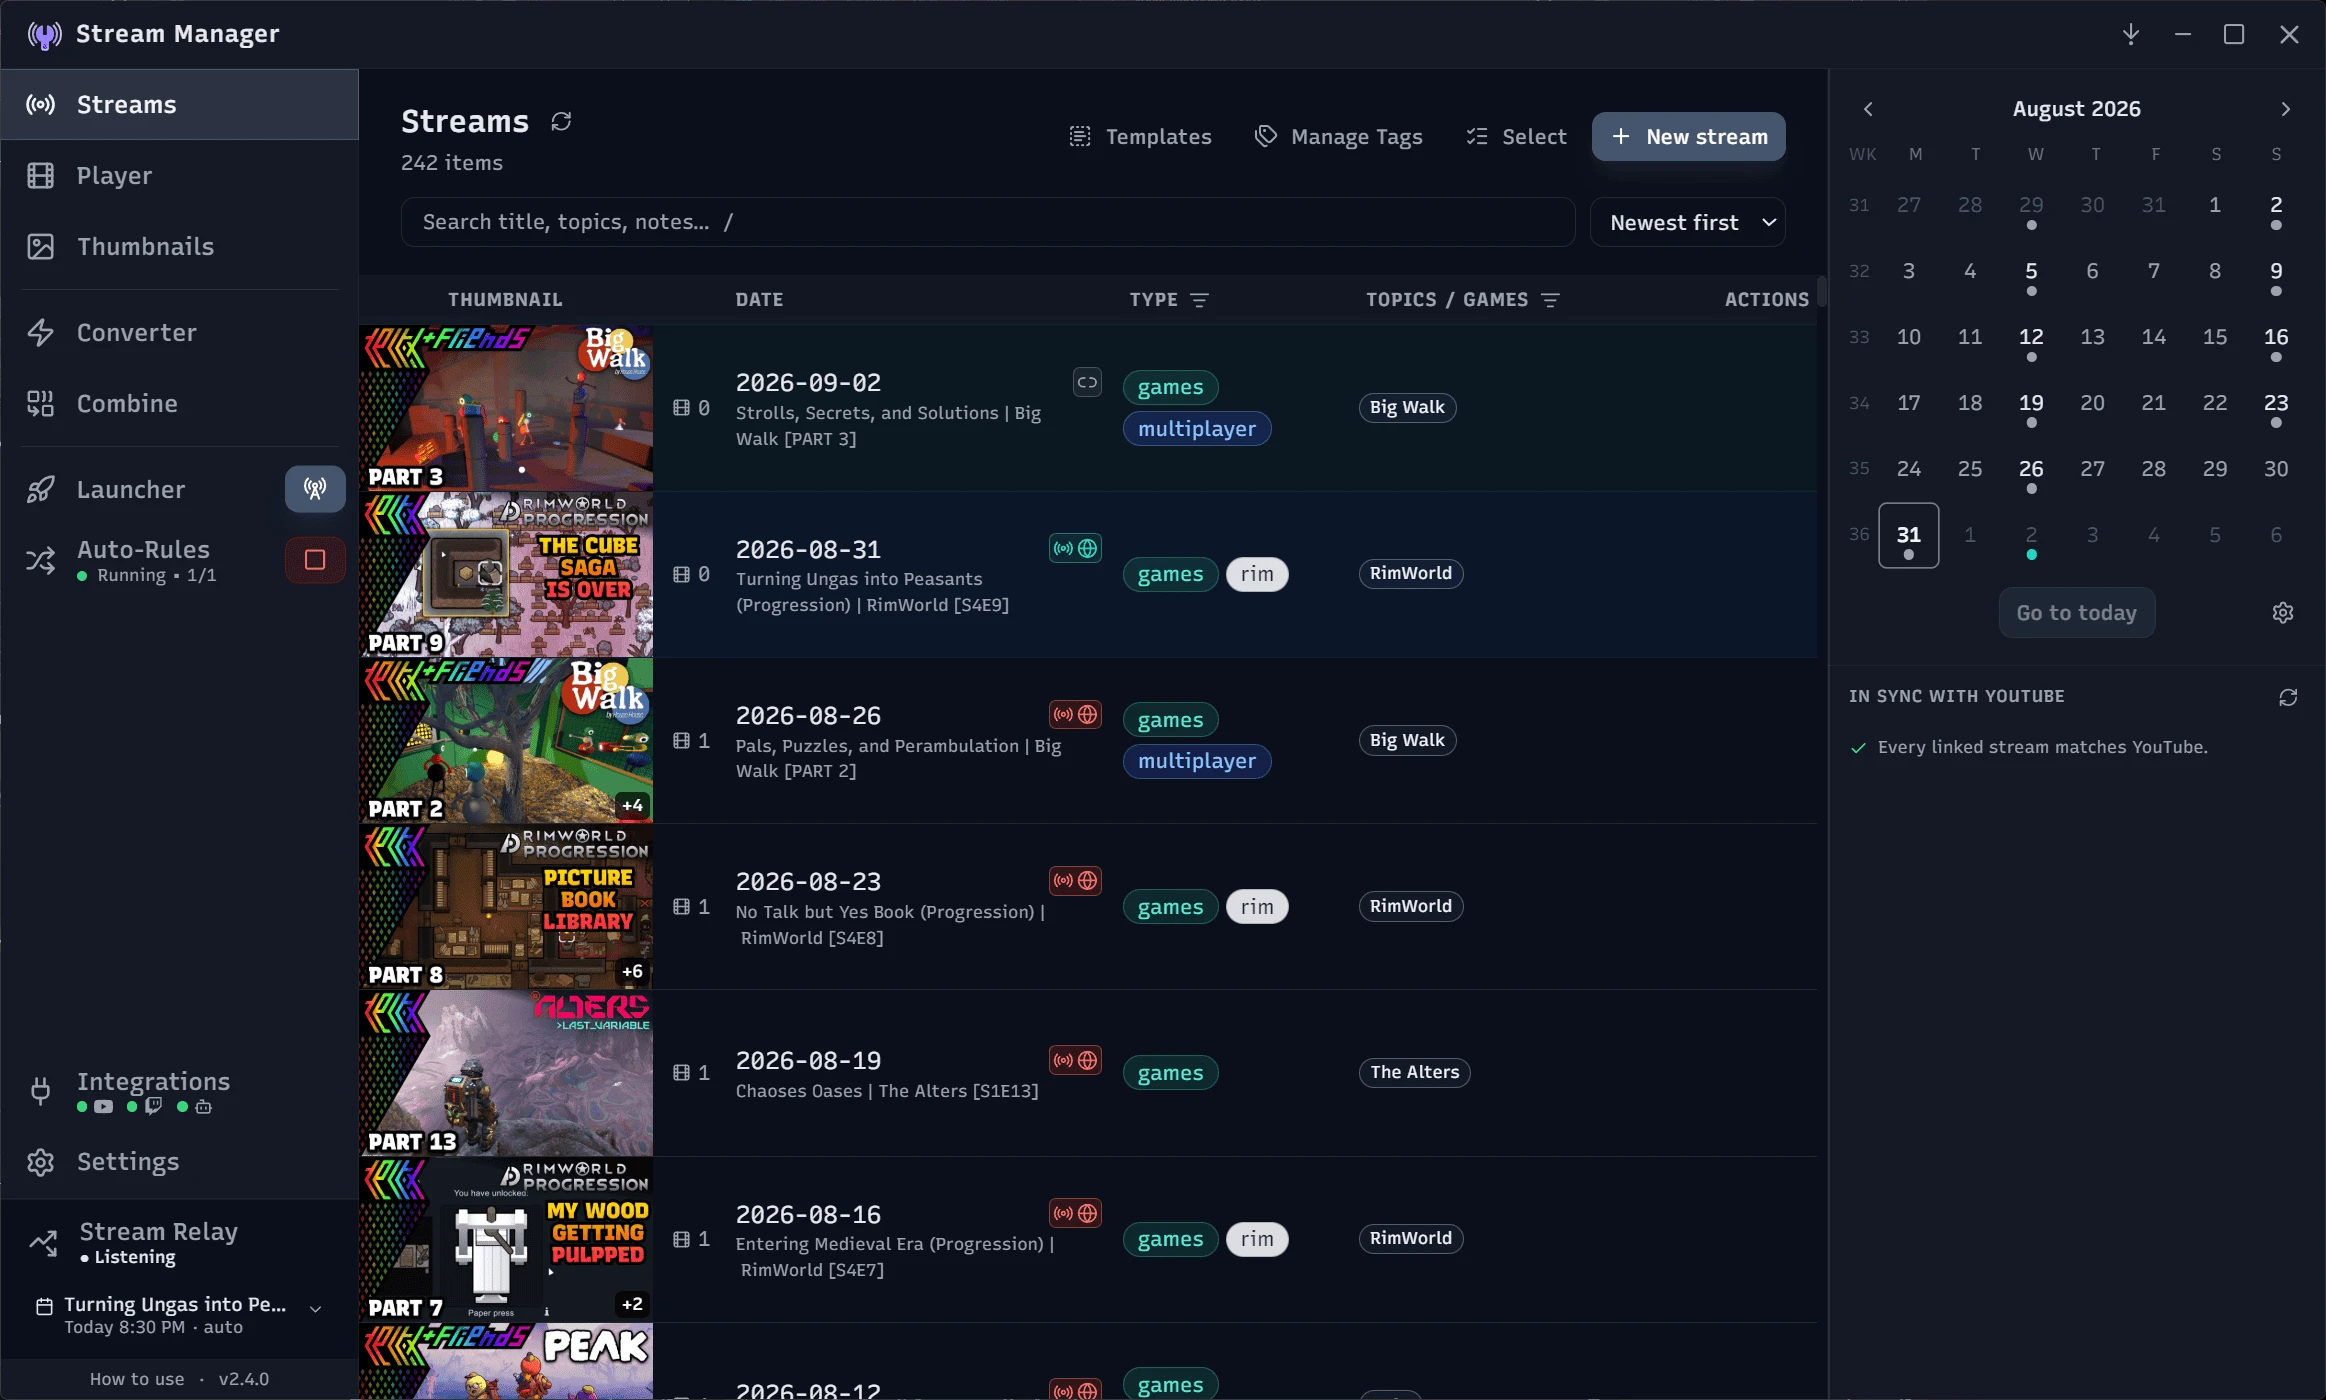
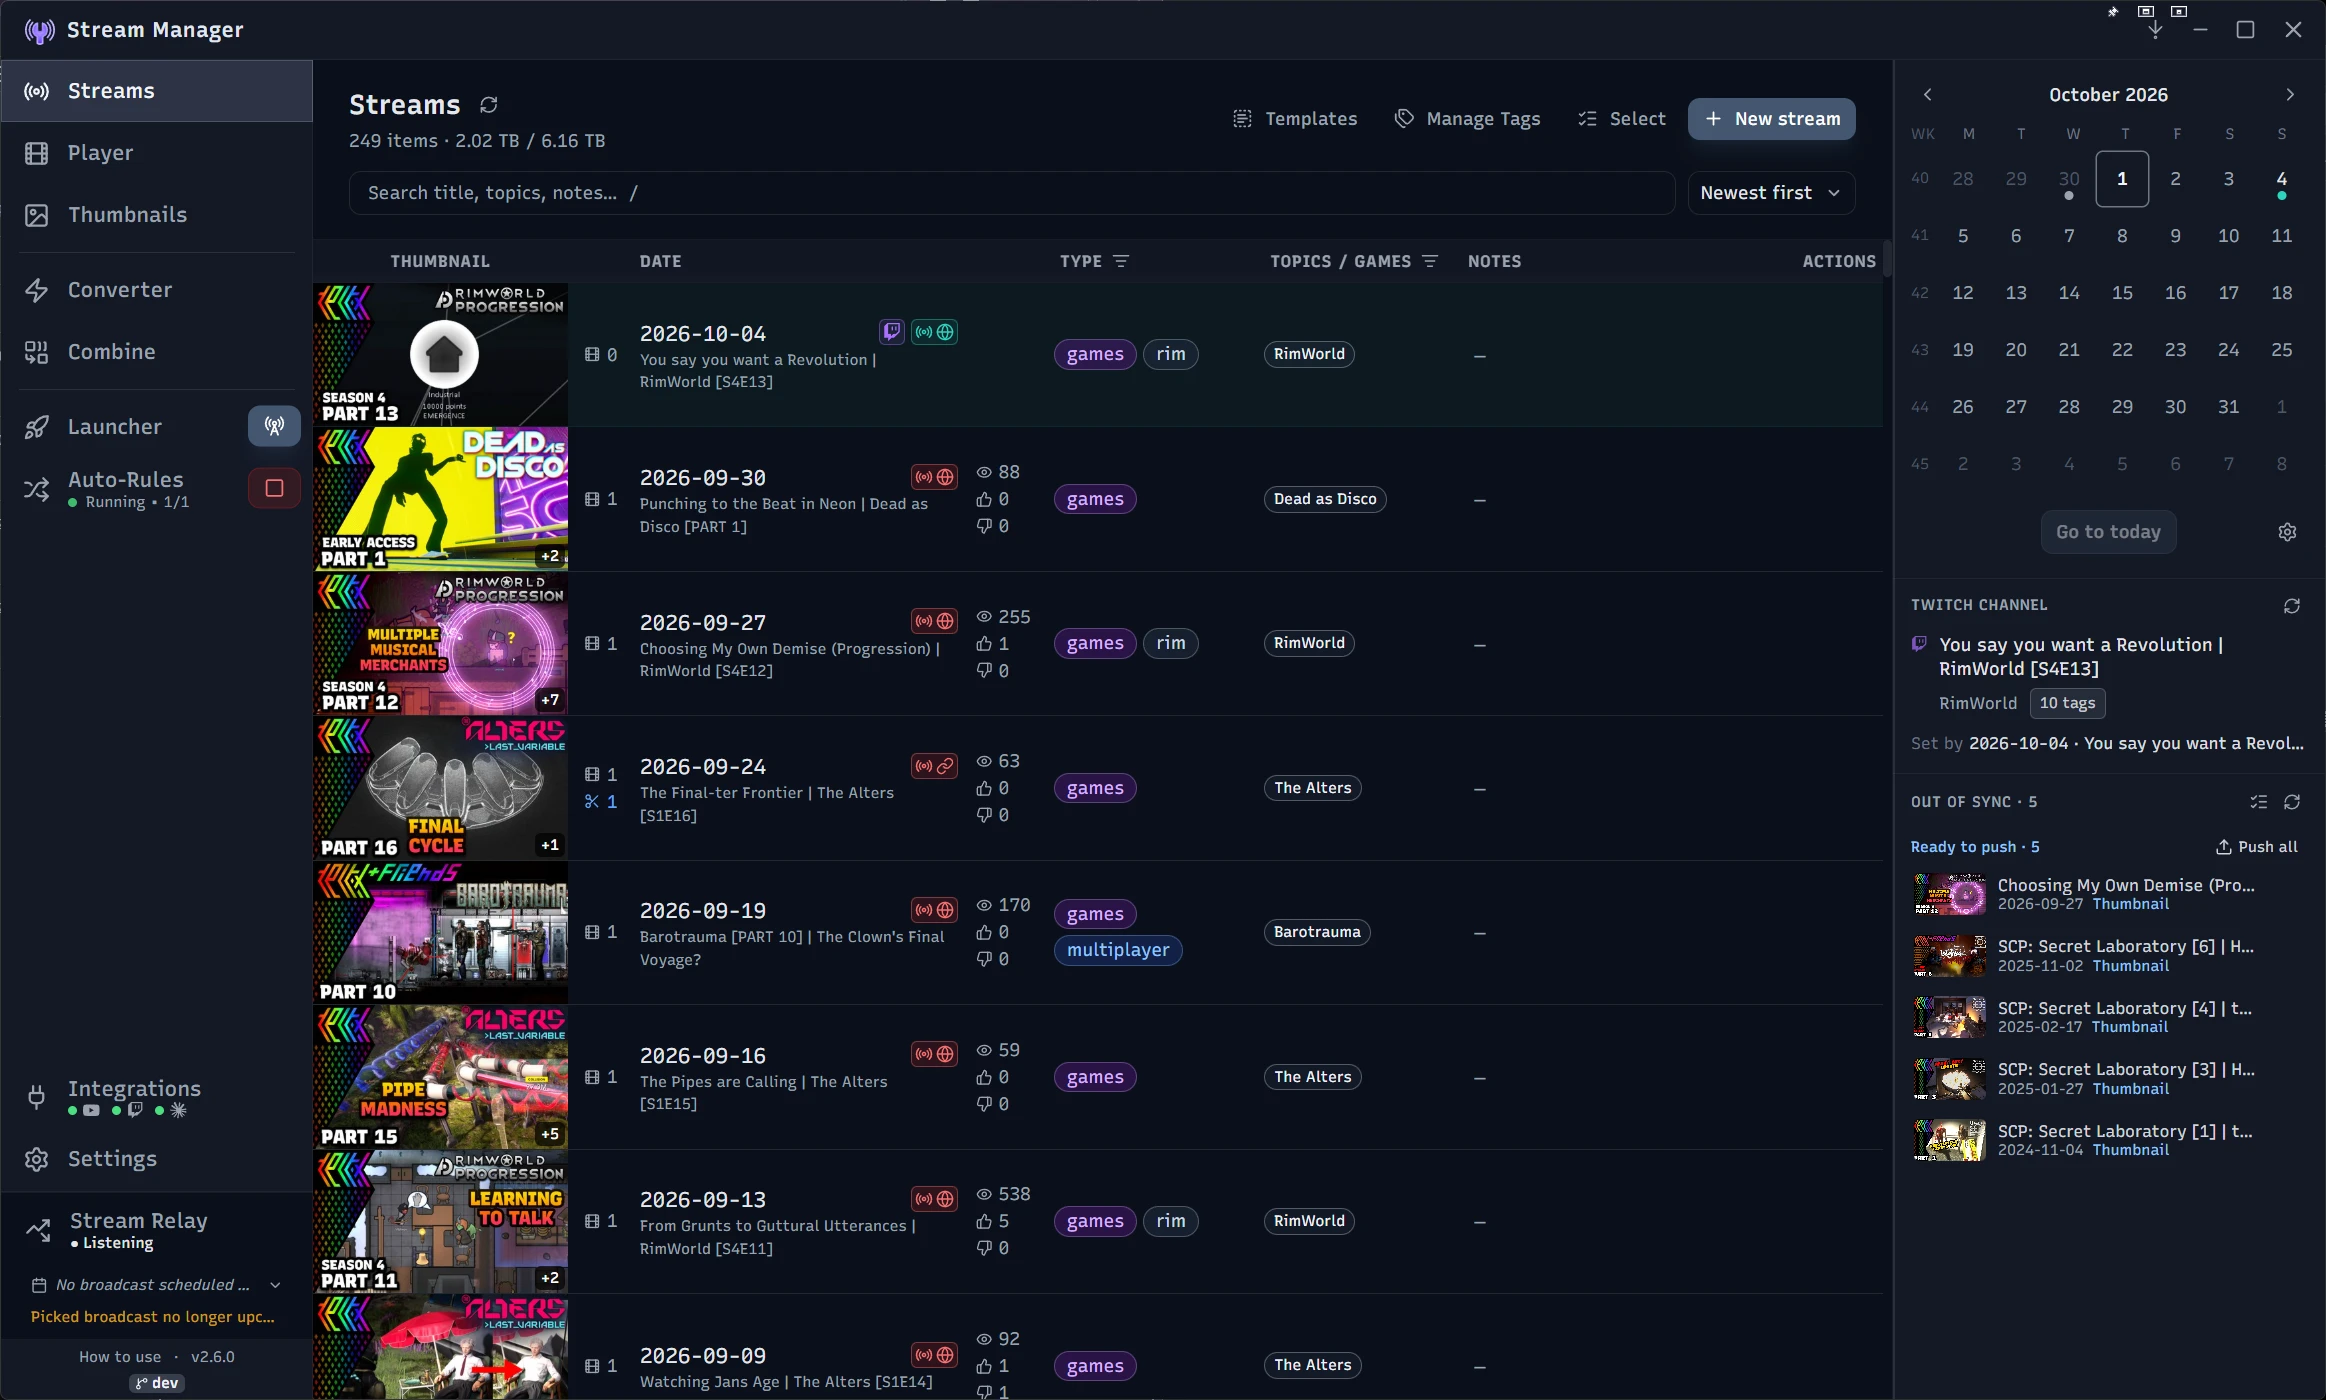
docs: updated hero image for readme

diff --git a/_release-test-checklist-2026-09-16.md b/_release-test-checklist-2026-09-16.md
@@ -109,7 +109,7 @@ Batch: no single theme. The Electron 34 to 44 upgrade, a converter and cloud rou
 
 ## Docs (every release)
 
-- [ ] README.md reviewed against the shipped app (2026-10-01): one sentence added to Thumbnail Editor for groups, masks, group effects, polygons, arrows, and gradient kinds; Electron 44 and Node 24 already right; all eleven links answer 200; layout block gained `constants/` and names the new lib and hook areas. Still open: the hero screenshot, to be swapped in from the website's new shoot before promotion.
+- [x] README.md reviewed against the shipped app (2026-10-01): one sentence added to Thumbnail Editor for groups, masks, group effects, polygons, arrows, and gradient kinds; Electron 44 and Node 24 already right; all eleven links answer 200; layout block gained `constants/` and names the new lib and hook areas; the hero image replaced from the new shoot (the previous one kept in `resources/_Archive/`, which the packaged build does not include: only `resources/icon.png` is bundled).
 - [x] CONTRIBUTING.md and PRINCIPLES.md (2026-10-01): every file and symbol PRINCIPLES cites exists (updateCheck 6 h TTL and net 30 s cache match the text); the main process references no host outside the published list (gstatic and cloudflare are the two probes, oauth2.googleapis.com is covered by googleapis.com, developers.google.com is a browser link); package.json changed only Electron and @types/node since v2.6.0. CONTRIBUTING corrected: the app writes no log files, so the "logs are at AppData/logs" line is replaced by the Ctrl+` dev tools console; the version is at the bottom of the navigation (About opens from it), not the title bar; three em-dashes removed.
 - [x] Style guide (2026-10-01): Angle fields, Native select skin, Drag and drop in scrollable containers, and Anchored popovers each describe what shipped, with the open items (APP-39 engine, APP-40 wheel) named in the text.
 
